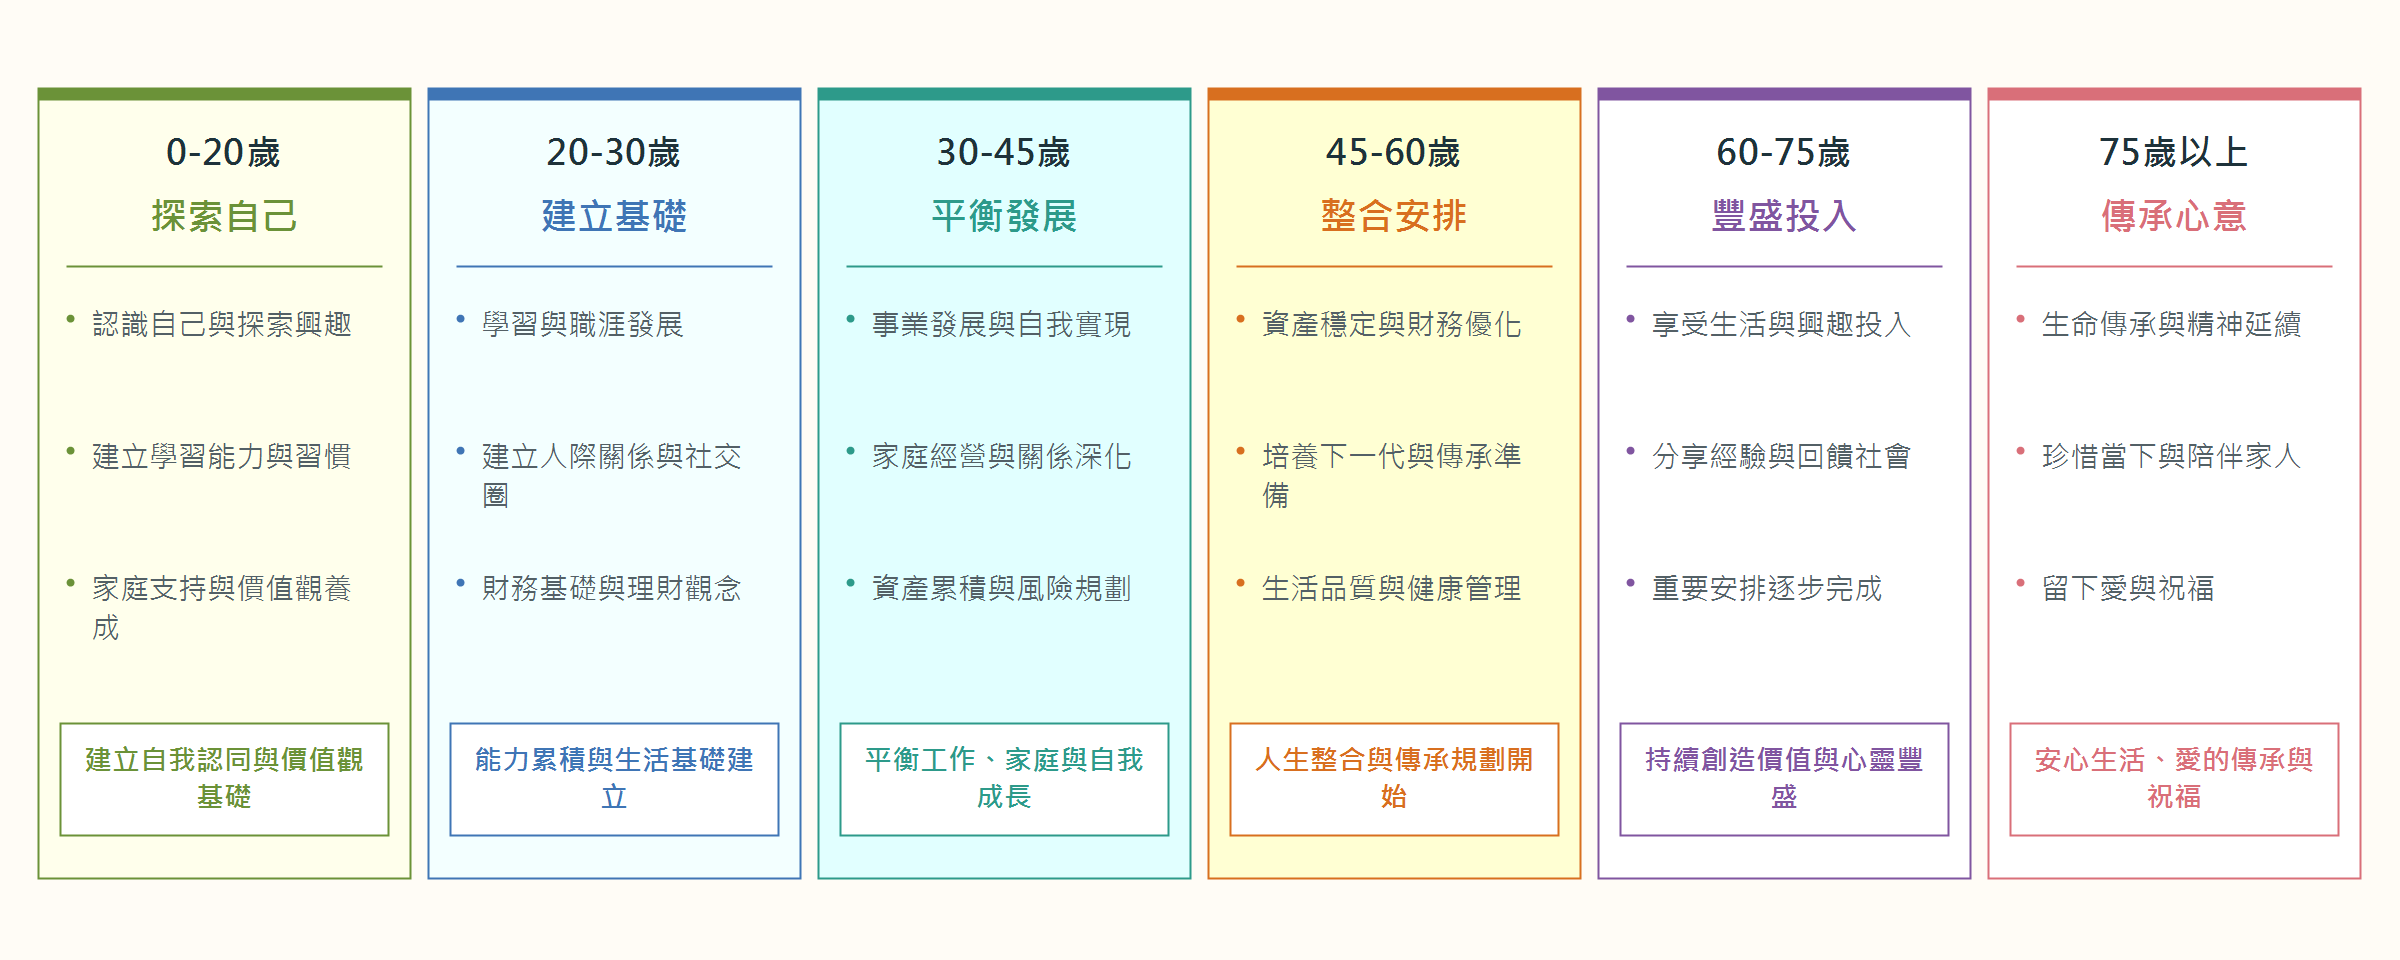
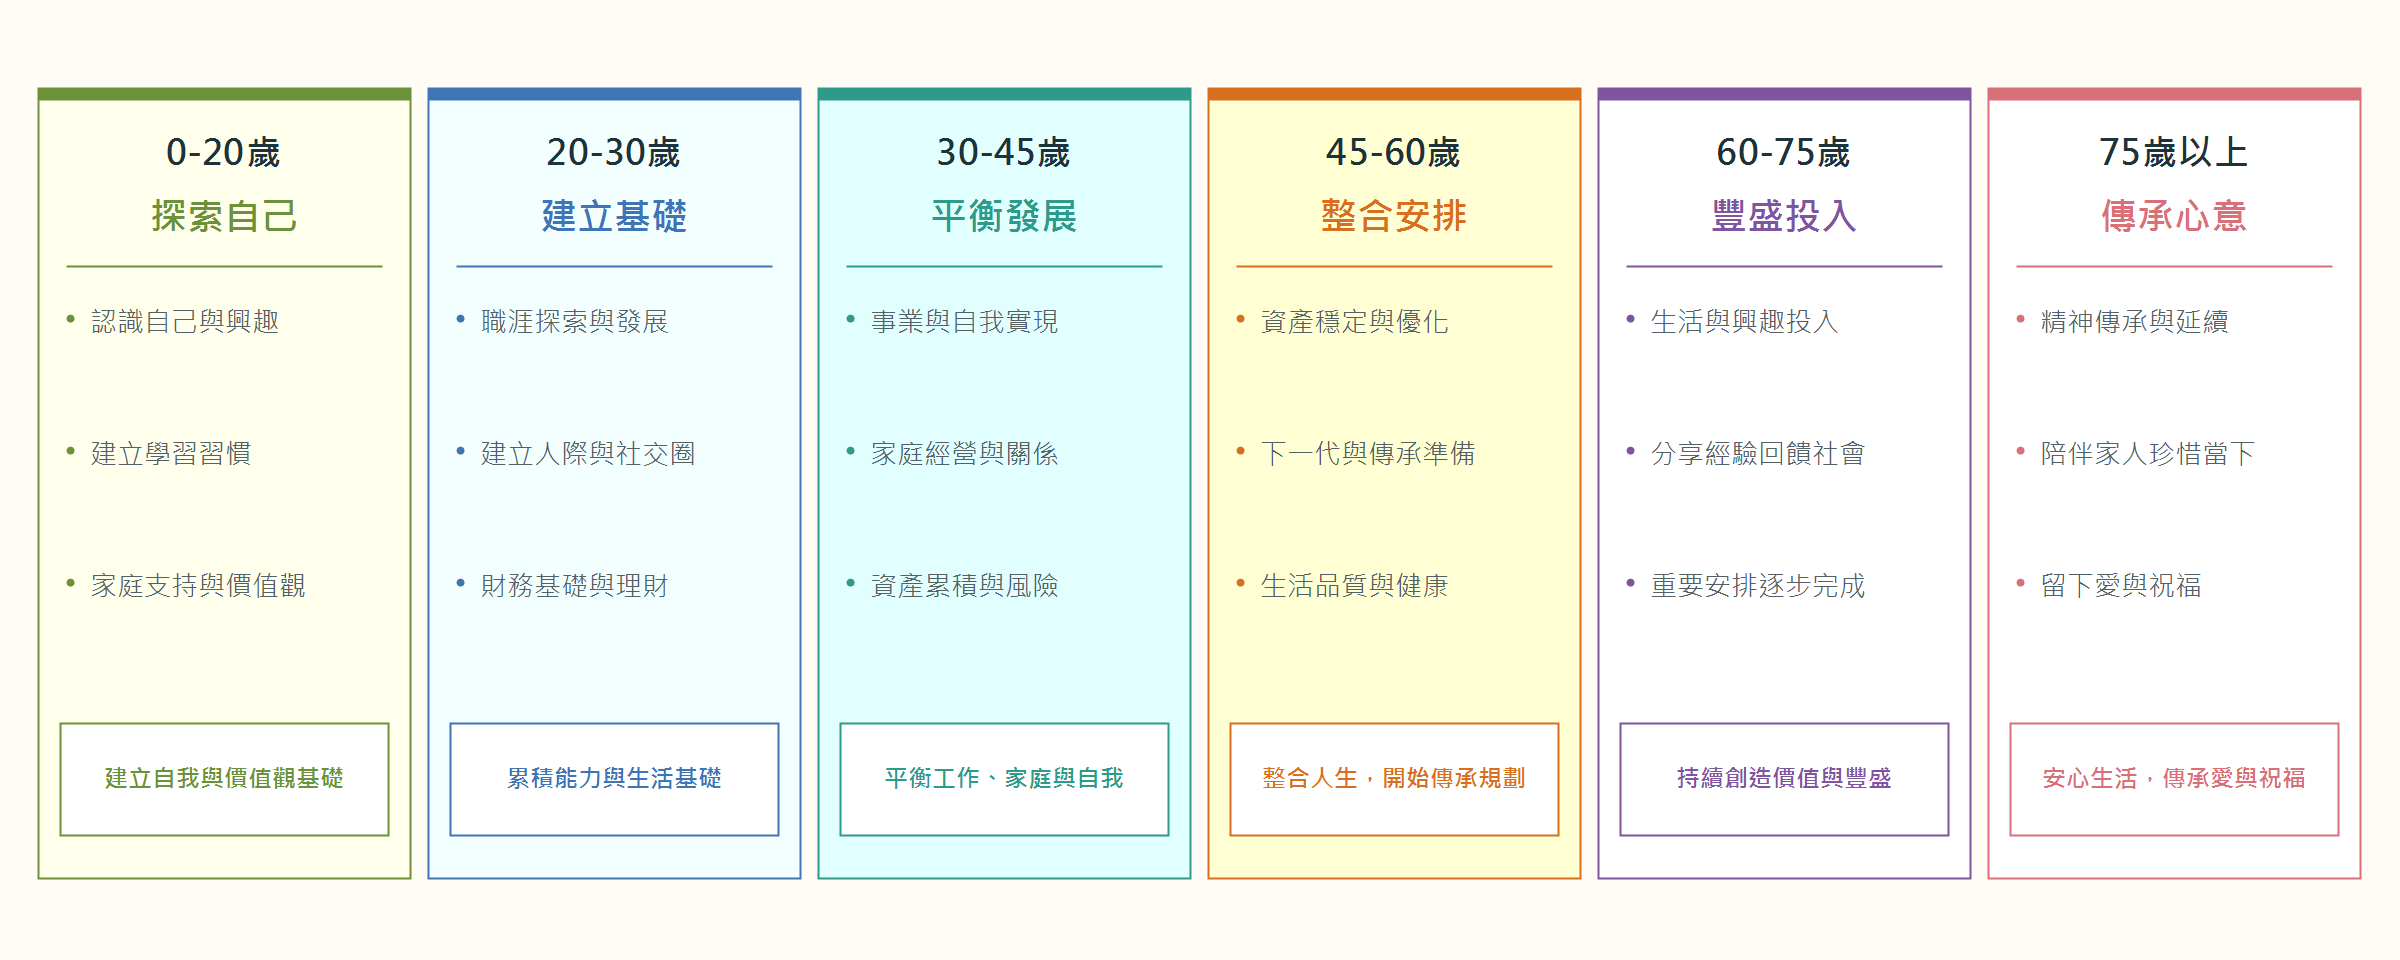
Refine timeline infographic readability

diff --git a/public/report.html b/public/report.html
@@ -83,7 +83,8 @@
     .life-stage { position:relative; padding:0 10px; text-align:center; }
     .stage-icon { width:54px; height:42px; margin:0 auto 10px; border-radius:999px; background:#fff; border:2px solid currentColor; display:flex; align-items:center; justify-content:center; font-size:12px; font-weight:800; white-space:nowrap; }
     .stage-dot { width:12px; height:12px; border-radius:999px; background:currentColor; margin:0 auto 12px; position:relative; z-index:1; box-shadow:0 0 0 4px #fffaf0; }
-    .life-stage.active .stage-dot { width:18px; height:18px; margin-top:-3px; box-shadow:0 0 0 5px #fffaf0,0 0 0 9px rgba(26,115,232,.2); }
+    .life-stage.active .stage-icon { color:#d93025 !important; border-color:#d93025; box-shadow:0 0 0 4px #fffaf0,0 0 0 7px rgba(217,48,37,.24); }
+    .life-stage.active .stage-dot { width:18px; height:18px; margin-top:-3px; background:#d93025; box-shadow:0 0 0 5px #fffaf0,0 0 0 9px rgba(217,48,37,.34); }
     .life-stage strong { display:block; color:var(--ink); font-size:15px; }
     .life-stage em { display:block; color:currentColor; font-style:normal; font-weight:800; }
     .timeline-stage-image { margin-top:18px; padding-top:16px; border-top:1px solid #eadfcb; }
